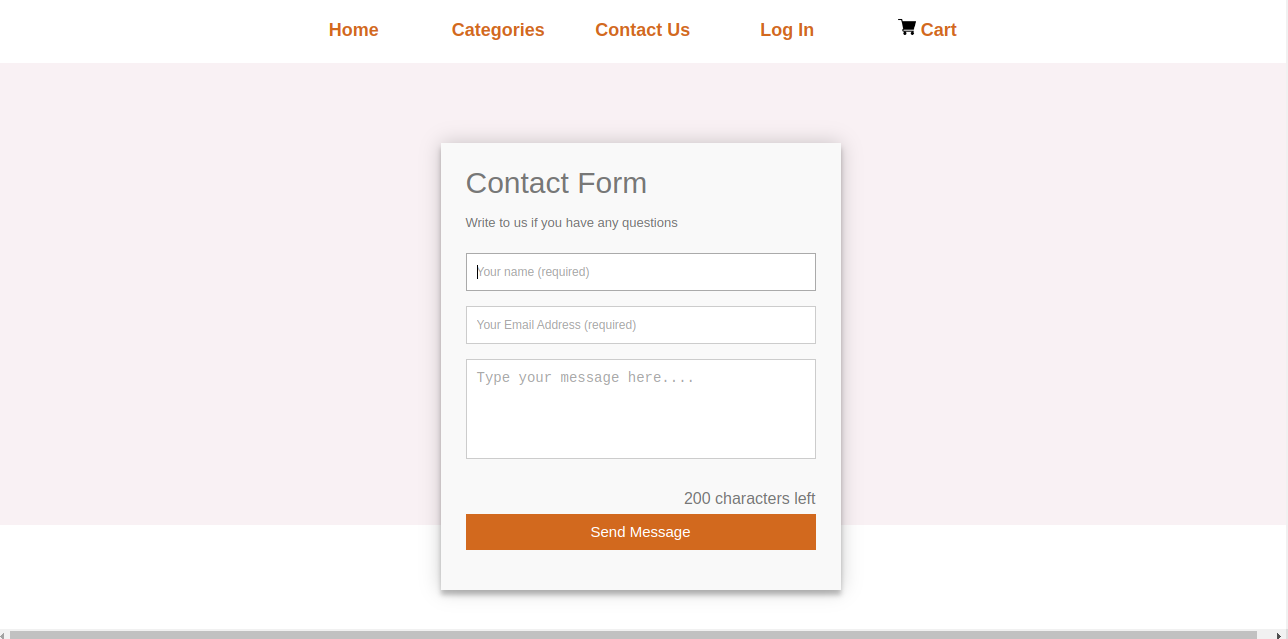
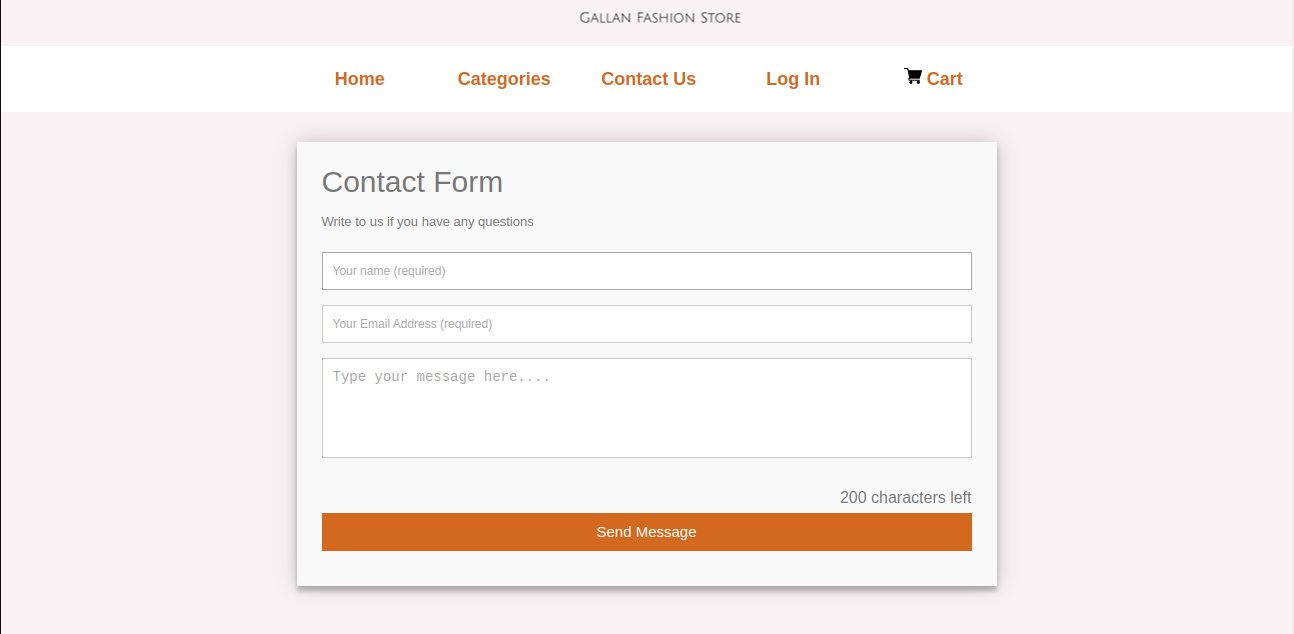
Styles updated in login

diff --git a/css/style.css b/css/style.css
@@ -315,14 +315,14 @@ fieldset {
 	padding: 0;
 	width: 100%;
 }
-#contact input[type="text"], #contact input[type="email"], #contact input[type="tel"], #contact input[type="url"], #contact textarea {
+#contact input[type="text"], #contact input[type="email"], #contact input[type="password"], #contact input[type="tel"], #contact input[type="url"], #contact textarea {
 	width: 100%;
 	border: 1px solid #ccc;
 	background: #FFF;
 	margin: 0 0 5px;
 	padding: 10px;
 }
-#contact input[type="text"]:hover, #contact input[type="email"]:hover, #contact input[type="tel"]:hover, #contact input[type="url"]:hover, #contact textarea:hover {
+#contact input[type="text"]:hover, #contact input[type="email"]:hover, #contact input[type="password"]:hover, #contact input[type="tel"]:hover, #contact input[type="url"]:hover, #contact textarea:hover {
 	-webkit-transition: border-color 0.3s ease-in-out;
 	-moz-transition: border-color 0.3s ease-in-out;
 	transition: border-color 0.3s ease-in-out;

diff --git a/login.php b/login.php
@@ -1,20 +1,51 @@
-<?php
-ob_start();
-session_start();
-include('connections/localhost.php');
+<?php include("includes/header.php") ?>
 
-?>
-
-<?php include("includes/header.php");
-?>
-
-<?php include("includes/navbar.php");
-?>
+<?php include("includes/navbar.php") ?>
 
 <body>
-	<h1 class="h-auto" align="center">User Login</h1>
+
+ 	<div class="contact">
+		<div class="contact-container">
+			<form id="contact" action="<?php echo htmlspecialchars($_SERVER['PHP_SELF']) ?>" method="post">
+				<h3>User Login</h3>
+
+				<fieldset>
+					<label for="email">Email</label>
+					<input name="email" type="text" height="30" id="email" maxlength="30" required placeholder="Enter email">
+				</fieldset>
+
+				<fieldset>
+					<label for="password">Password</label>
+					<input name="password" type="password" id="password" height="30" maxlength="30" placeholder="enter password" required>
+				</fieldset>
+
+				<fieldset>
+					<button
+						name="submit"
+						type="submit"
+						id="contact-submit"
+						title="Submit">
+						Submit
+					</button>
+				</fieldset>				
+
+				<p>Dont have an account? <a href="register.php">Register here</a>.</p>
+				
+			</form>
+
+		</div>
+	</div>
+
+
+
+
+
+
+
+
 	<!-- start of form-->
-	<div class="form">
+<!-- 	<h1 class="h-auto" align="center">User Login</h1>
+ 	<div class="form">
 		<form action="login.php" method="post" enctype="multipart/form-data">
 			<div align="center">
 				<label for="email">Your email</label>
@@ -31,7 +62,7 @@ include('connections/localhost.php');
 			</div>
 		</form>
 		<p>Dont have an account? <a href="register.php">Register here</a>.</p>
-	</div>
+	</div> -->
 	<!-- end of form-->
 	
 	<div class="msg">
